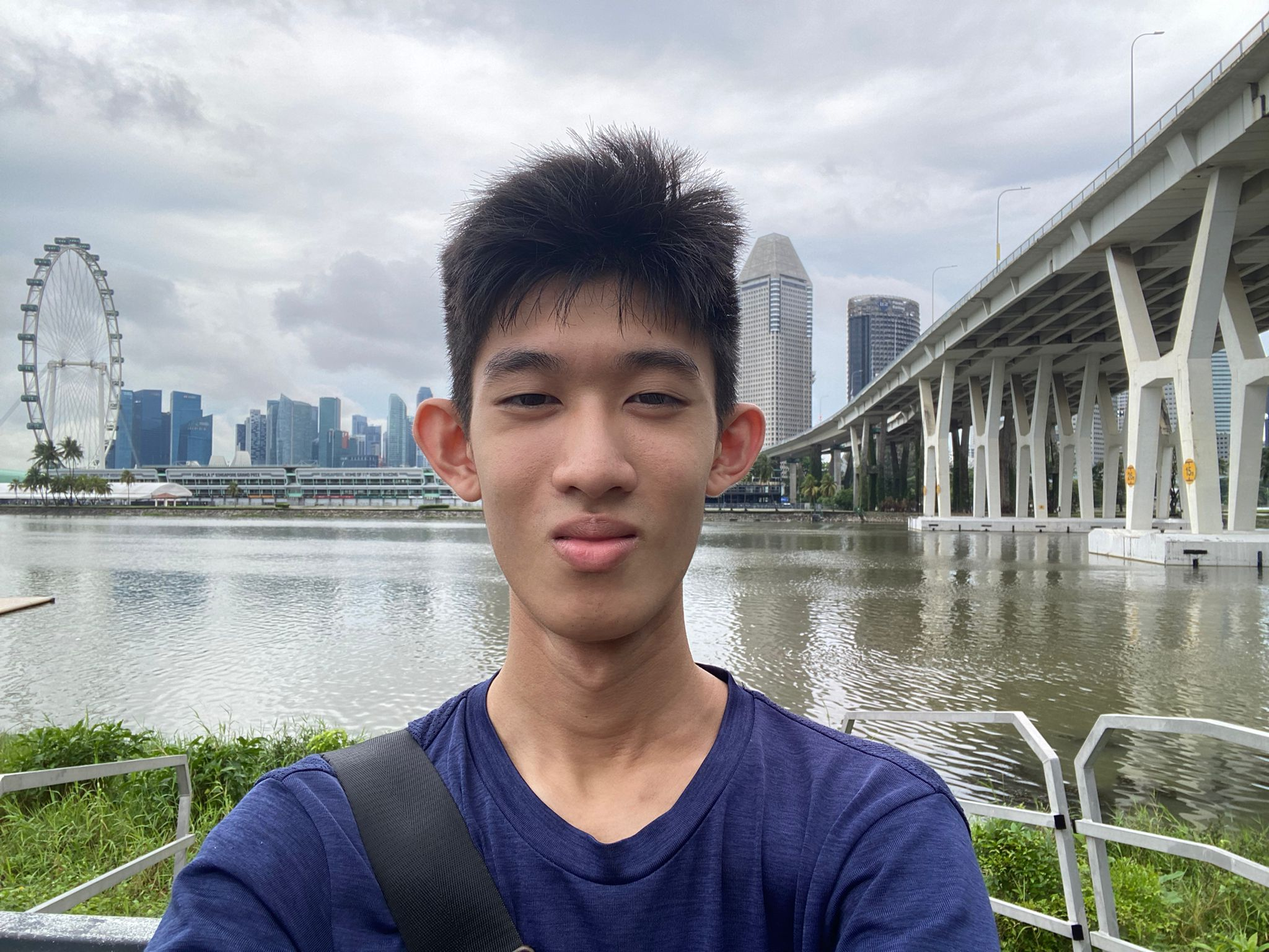
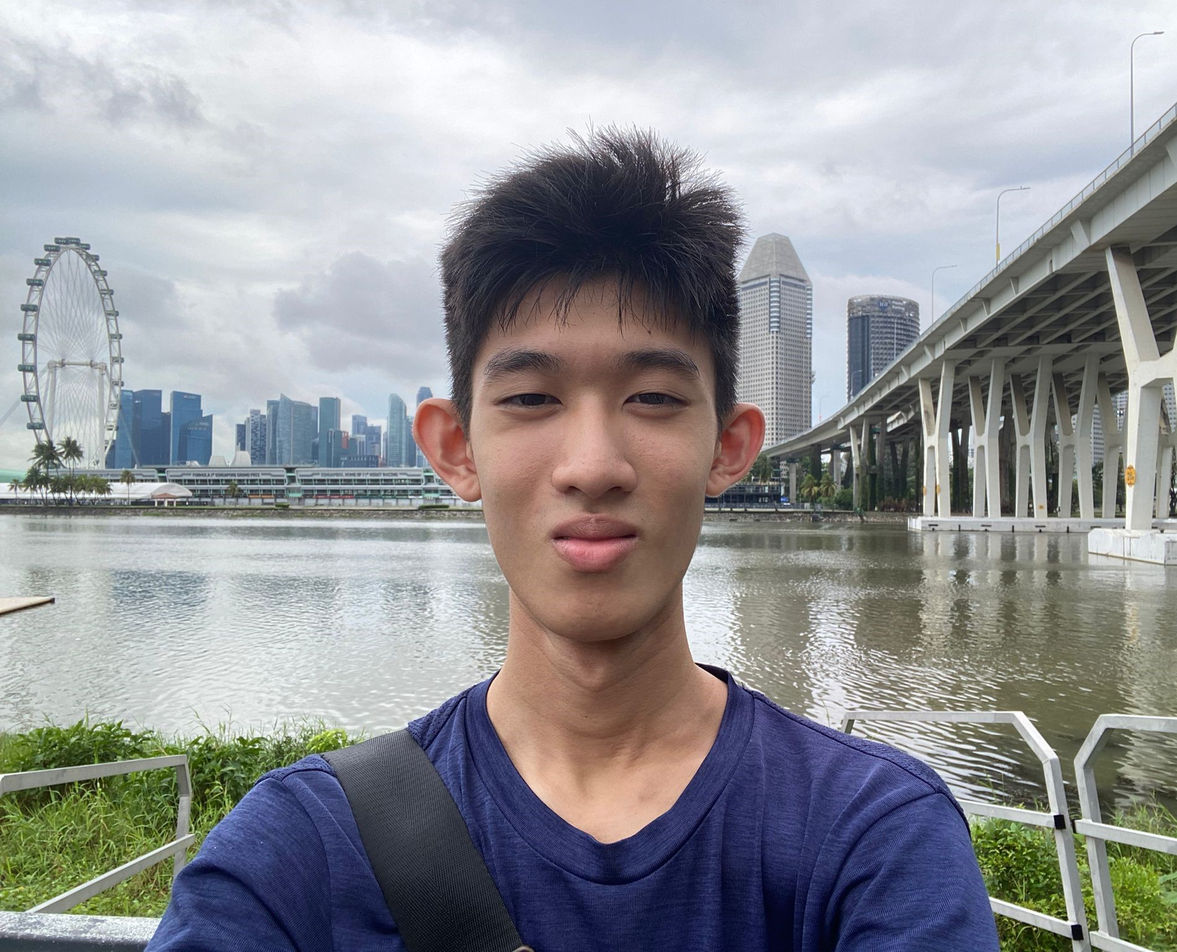
feat: Sliding carousel for projects

diff --git a/styles/styles.css b/styles/styles.css
@@ -41,7 +41,8 @@ body {
 }
 
 a{
-    transition: 0.3s
+    transition: 0.3s;
+    font-family: 'Lucida Sans', 'Lucida Sans Regular', 'Lucida Grande', 'Lucida Sans Unicode', Geneva, Verdana, sans-serif !important;
 }
 
 a:hover {
@@ -57,8 +58,8 @@ a:hover {
 
 #intro-container {
     width: 50%;
-    margin-top: 9%;
-    margin-left: 9%;
+    margin-top: 8%;
+    margin-left: 10%;
     display: flex;
     flex-direction: column;
 }
@@ -73,7 +74,7 @@ a:hover {
 }
 
 #profile-image {
-    border-radius: 40px;
+    border-radius: 60px;
     margin: 9% 4% 5% 2%;
 }
 
@@ -110,6 +111,11 @@ footer {
     border-radius: 10px;
 }
 
+.section-header {
+    font-family: 'Trebuchet MS', 'Lucida Sans Unicode', 'Lucida Grande', 'Lucida Sans', Arial, sans-serif;
+    font-size: 45px;
+}
+
 /*Skills display related*/
 
 #skills-container {
@@ -117,12 +123,13 @@ footer {
     justify-content: center;
     flex-direction: row;
     flex-wrap: wrap;
-    gap: 4em;
+    gap: 2.5em;
     align-items: center;  
 }
 
 .skill-box:hover, .project-box:hover {
-    background-color: #def3f3;
+    opacity: 60%;
+
 }
 
 .skill-box {
@@ -135,7 +142,7 @@ footer {
     padding: 0.4% 3% 0.6% 0;
     border-radius: 25px;
     border: 5px solid black;
-    transition: background-color 0.2s;
+    transition: opacity 0.3s;
 }
 
 .skill-title {
@@ -164,19 +171,20 @@ footer {
     display: flex;
     justify-content: center;
     flex-direction: row;
-    flex-wrap: wrap;
-    gap: 10em;
+    gap: 2em;
     align-items: center;
+    overflow: hidden;
+    width: 100%; 
 }
 
 .project-box {
-    transition: background-color 0.2s;
+    transition: opacity 0.3s;
     display: flex;
     align-items: center;
     width: 28%;
     height: 90%;
     justify-content: center;
-    padding: 1% 3% 2% 3%;
+    padding: 0.5% 1% 1% 1%;
     border-radius: 20px;
     flex-direction: column;
     border: 5px solid black;
@@ -207,10 +215,20 @@ footer {
     width: 10%;
     height: 20%;
     justify-self: center;
-    margin: 5% auto 6% auto;
+    margin: 2% auto 2% auto;
     text-align: center;
     border-radius: 10px;
    
+}
+
+#projects-carousel {
+    margin-top: 2%;
+    display: flex;
+    flex-direction: row;
+    justify-content: center;
+    align-items: center;
+    gap: 6em;
+    transition: all 0.7s ease-in-out;
 }
 
 #skills-section, #projects-section, .awards-container {

diff --git a/scripts/homepage.js b/scripts/homepage.js
@@ -1,6 +1,8 @@
 
 const projectContainer = document.getElementById("projects-container");
 const skillsContainer = document.getElementById("skills-container");
+
+
 const images = {
     "Visual Paradigm" : "./images/VP-icon.png",
     "HTML & CSS" : "./images/htmlcss-icon.png",
@@ -25,6 +27,8 @@ const images = {
 
 };
 const url = "http://localhost:3000/";
+
+
 
 populateSkills();
 populateProjects();
@@ -68,7 +72,7 @@ async function populateSkills() {
         console.log(error);
     }
 }
-
+const carousel = document.getElementById("projects-carousel");
 async function populateProjects() {
     try {
         const response = await fetch(url + "project", {
@@ -81,7 +85,7 @@ async function populateProjects() {
                 let desc = project.data[x]["Description"];
                 let imgUrl = images[title];
                 console.log(imgUrl);
-                projectContainer.insertAdjacentHTML("beforeend", 
+                carousel.insertAdjacentHTML("beforeend", 
                     `
                     <div class="project-box">
                         <h2>${title}</h2>
@@ -91,14 +95,37 @@ async function populateProjects() {
                         </div>
                     </div>
                     `
-
                 )
             }
+            launchCarousel();
+            
         })
         
     }
     catch (error) {
         console.log(error);
+ 
     }
+    function launchCarousel() {
+        const projects = document.querySelectorAll(".project-box");
+        let projectIndex = -1, intervalId;
+    
+        const autoSlide = () => {
+            intervalId = setInterval(() => slideImage(++projectIndex), 3000);
+        }
+    
+        autoSlide();
+        const positions = [0, -16, -33, -49, 50.5, 34, 17];
+        const slideImage = () => {
+            
+            projectIndex = projectIndex == 7? 0 : projectIndex;
+            let transform = positions[projectIndex];
+            console.log(projectIndex);
+            // -16%, -33%, -49%, 50.5%, 34%, 17%,
+            carousel.style.transform = `translate(${transform}%)`;
+        };
+    }
+    
 
+    
 }

diff --git a/index.html b/index.html
@@ -29,7 +29,7 @@
                 With the skills I have learnt in my course and in my own time, I hope to pursue a career in Software Engineering or related fields like Web Development.</p>
             </div>
             <div id="image-container">
-                <img src="./images/profile-image.jpeg" width="650px" height="470px" id="profile-image">
+                <img src="./images/profile-image.jpeg" width="610px" height="470px" id="profile-image">
             </div>
         </div>
     </section>
@@ -37,7 +37,7 @@
     <hr class="divider">
     <section id="skills-section">
         <div class="category-box">
-            <h1 class="mt-2">Skills</h1>
+            <h1 class="mt-2 section-header">Skills</h1>
         </div>
         <div id="skills-container">
         </div>
@@ -46,11 +46,13 @@
     <hr class="divider">
     <section id="projects-section">
         <div class="category-box">
-            <h1 class="mt-2" id="section-title">Projects</h1>
+            <h1 class="mt-2 section-header" id="section-title">Projects</h1>
         </div>
         <div id="projects-container">
+            <div id="projects-carousel"></div>
         </div>
     </section>
+    <hr class="divider">
     <footer></footer>
         
     </div>
